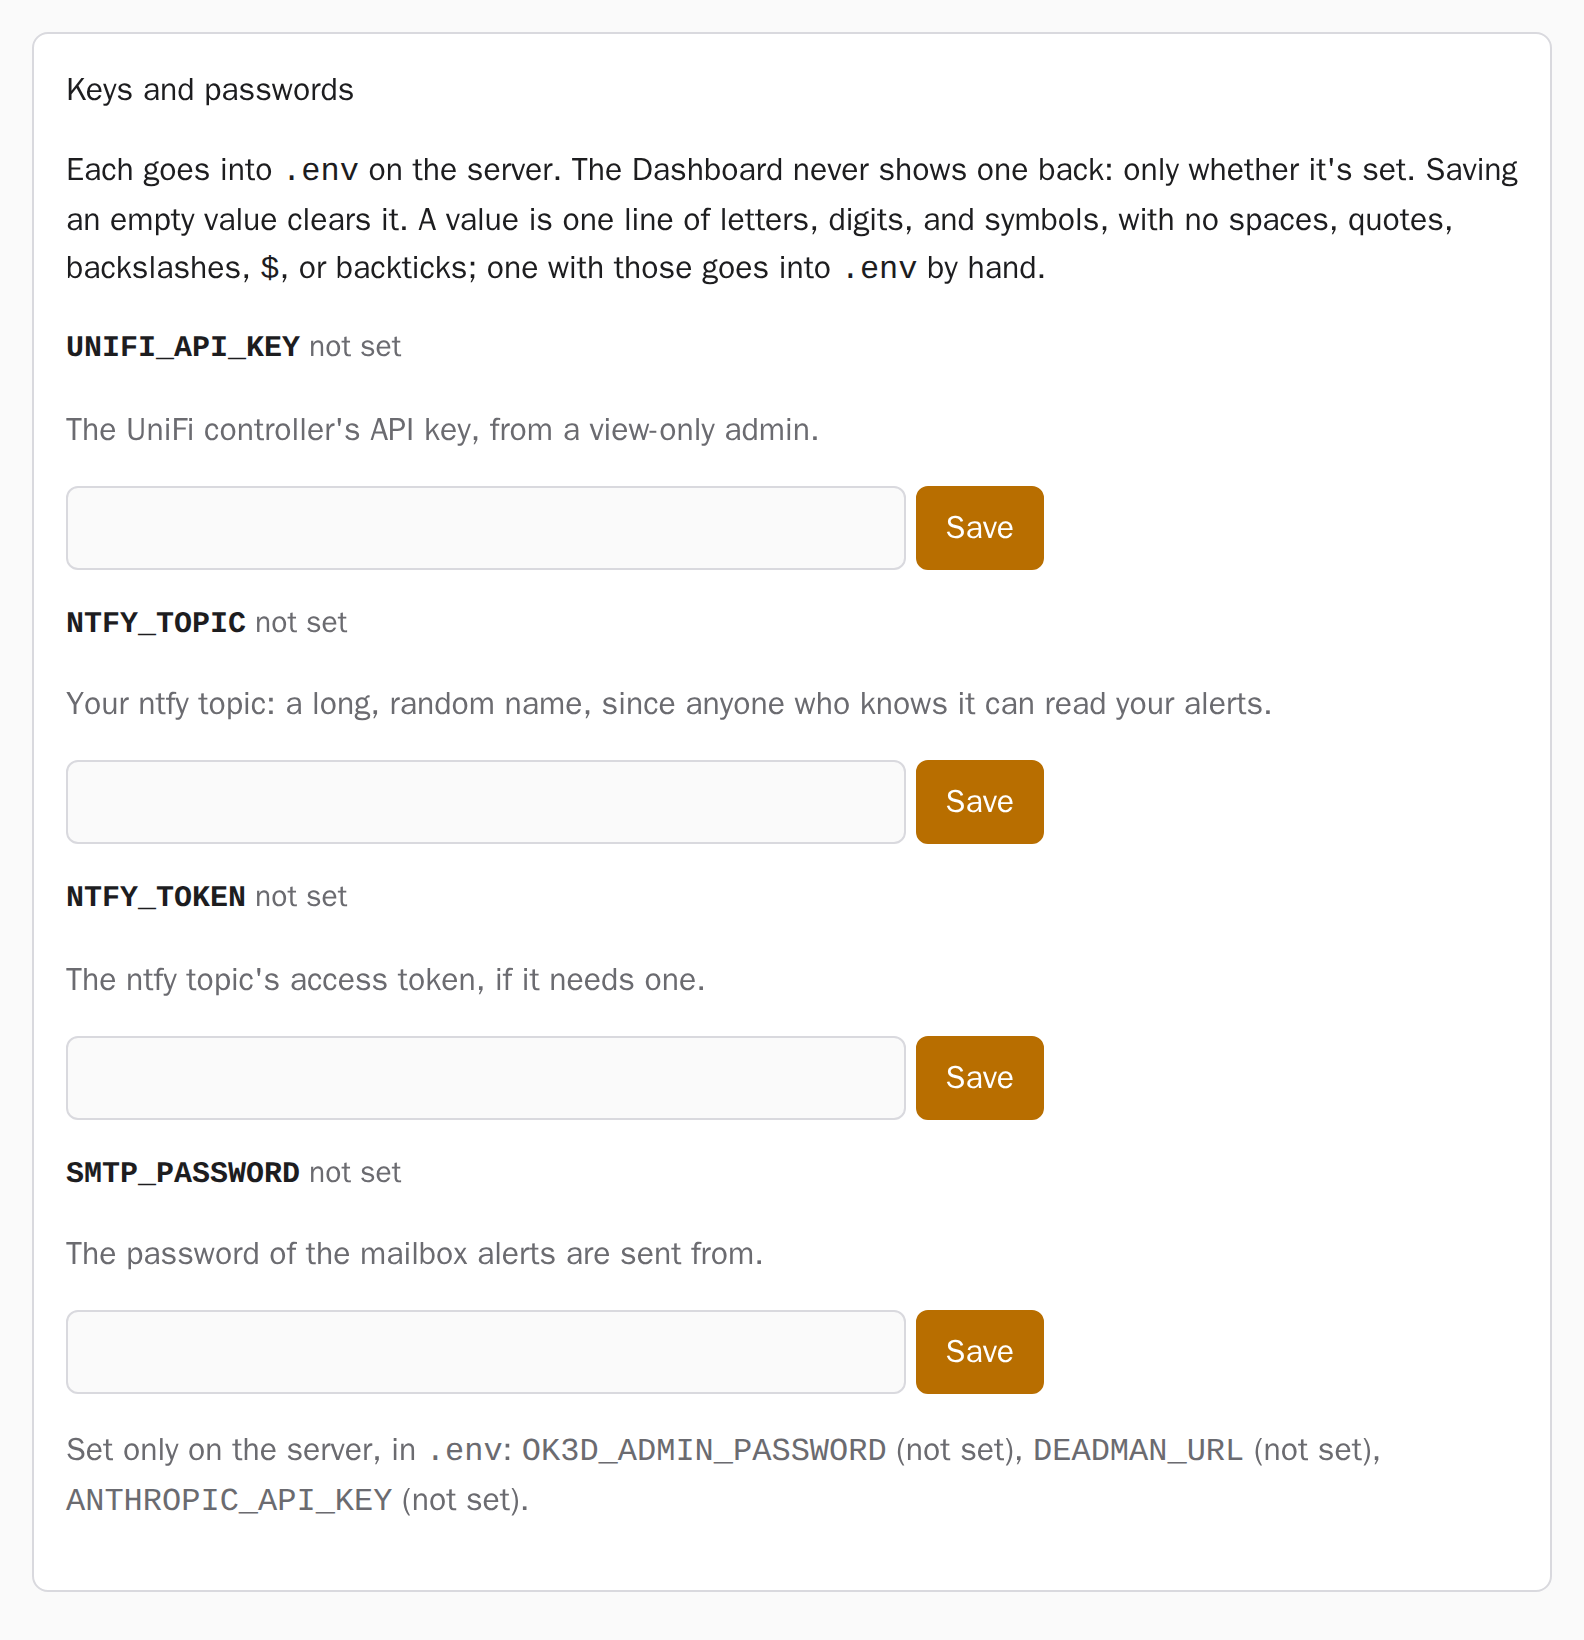
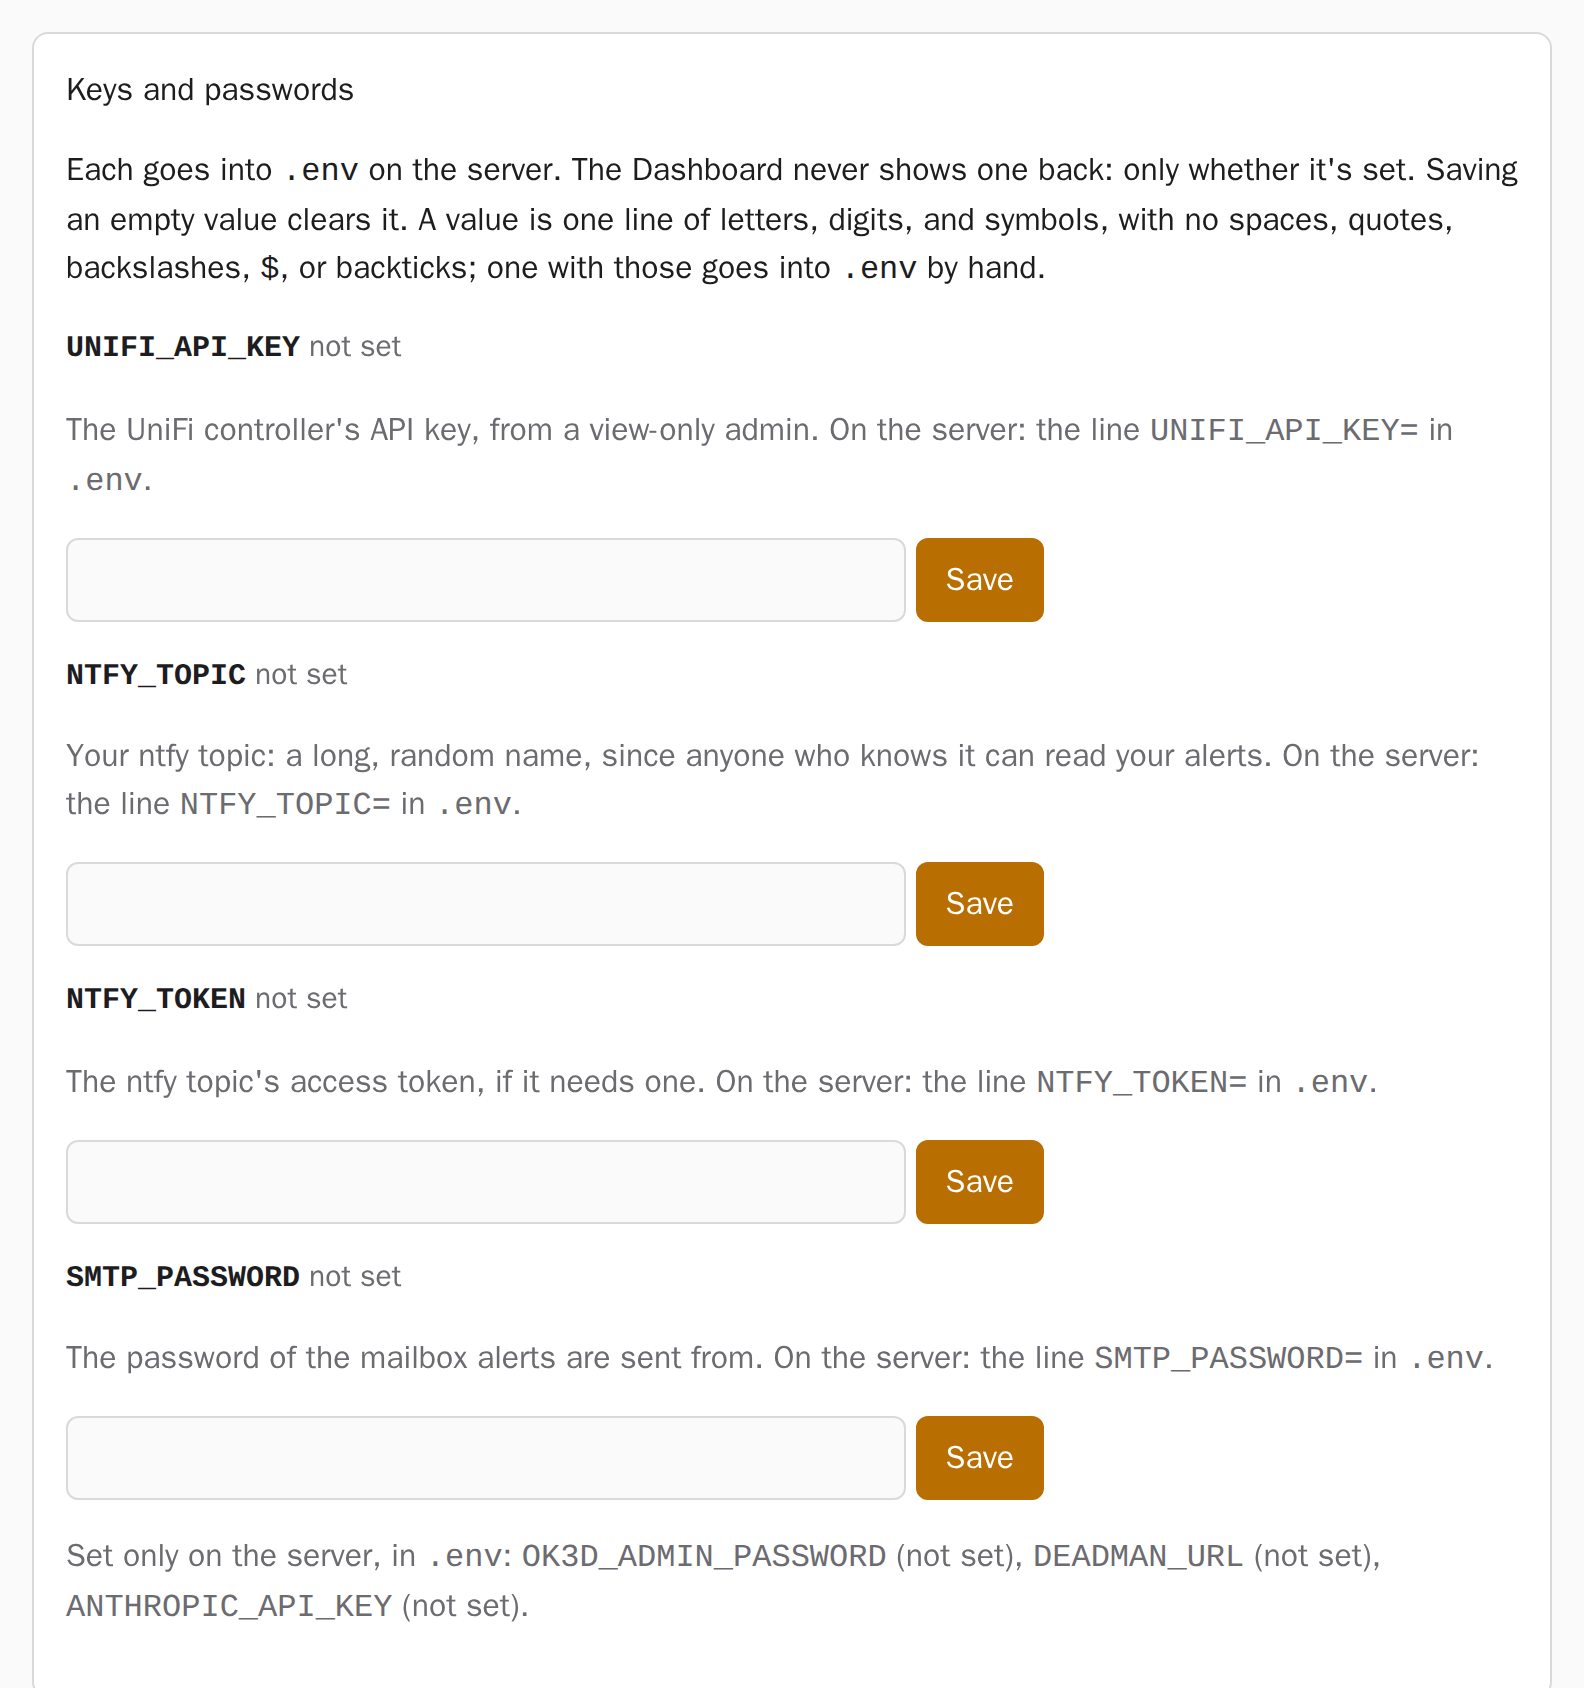
Release 0.5.1 (#47)
Release 0.5.1: the Dashboard's second step.

## What's in it

- **Version 0.5.1** in the package and both charts. The changelog is
dated 2026-10-30.
- **The 0.5.1 changelog section**, which becomes the release notes:
- Upgrades from the Dashboard, and `./ok3d upgrade`, for signed releases
only (#42).
  - Apply asks first when it would restart or stop something (#43).
  - Each page shows its server command (#44).
  - Maintenance windows (#45, #46).
- The Upgrading note now says to run the installer, then Check and Apply
on the Dashboard. Apply restarts the gateway when coming from 0.5.0, and
its question needs Helm 3.13 or newer.
- **Every Dashboard screenshot retaken** from this branch on a fresh
test VM, so each shows 0.5.1 and its page's new text. There's a new
screenshot of the Maintenance page, and the alt texts describe what's
new.
- **The roadmap and CLAUDE.md** now say 0.5.1 is being released and 0.6
is next.

## The release test, on the test VM

1. **Upgrade from 0.5.0, the way a user has it.**
- I restored the clean snapshot and installed `v0.5.0` with the
installer. Check and Apply on its Dashboard took 12.75 minutes.
- I moved the checkout to this branch with the commands from
`docs/upgrading.md`, because the installer only takes tags. Then I ran
`./ok3d install`, with the Dashboard's image built from this branch.
   - From the Dashboard alone:
- **Check** listed the plan: the gateway would restart, plus 32 other
changes that stop nothing.
[…]

diff --git a/src/ok3d/__init__.py b/src/ok3d/__init__.py
@@ -6,4 +6,4 @@ arrives in the release the roadmap in PLAN.md gives it.
 
 # The version every part reports. A release pull request sets it; the next pull request
 # moves it on to the following version's .dev0.
-__version__ = "0.5.1.dev0"
+__version__ = "0.5.1"

diff --git a/docs/dashboard.md b/docs/dashboard.md
@@ -39,7 +39,7 @@ minute.
 
 <picture>
   <source media="(prefers-color-scheme: dark)" srcset="../images/screenshots/dashboard-home-dark.png">
-  <img src="../images/screenshots/dashboard-home-light.png" alt="The Dashboard's Home page: ok3d's version, the helper running, the Check and Apply buttons, a Before you Apply list saying alerts go nowhere yet, What's next with five steps and links to the certificate authority and Grafana, and the helper's last answer, a Check that finished with exit status 0, with what ok3d check printed." width="700">
+  <img src="../images/screenshots/dashboard-home-light.png" alt="The Dashboard's Home page: ok3d 0.5.1, the helper running, the Check and Apply buttons with a note that Apply will change nothing that's running and the same commands on the server, a Before you Apply list saying alerts go nowhere yet, What's next with five steps and links to the certificate authority and Grafana, the helper's last answer, a Check that finished with exit status 0, with what ok3d check printed, and Releases, with a Look for a new release button." width="700">
 </picture>
 
 Each page also says what its buttons do on the server, as the command or the line in a file
@@ -86,7 +86,7 @@ backups it makes, and what to do if an upgrade stops partway.
 
 <picture>
   <source media="(prefers-color-scheme: dark)" srcset="../images/screenshots/dashboard-setup-dark.png">
-  <img src="../images/screenshots/dashboard-setup-light.png" alt="The Dashboard's Setup page: four ready-made setups as cards (Basic NOC, marked as the setup now; Network NOC, which needs the UniFi controller's address first; NOC with logs, coming in 0.6; and NOC with agents, coming in 0.9), then each part (UniFi, off until its controller's address is set, and the rest coming in later releases), then where alerts go: ntfy, email, and the dead man's switch, each off, with a Turn on button." width="700">
+  <img src="../images/screenshots/dashboard-setup-light.png" alt="The Dashboard's Setup page, each choice with the settings.yaml line it writes: four ready-made setups as cards (Basic NOC, marked as the setup now; Network NOC, which needs the UniFi controller's address first; NOC with logs, coming in 0.6; and NOC with agents, coming in 0.9), then each part (UniFi, off until its controller's address is set, and the rest coming in later releases), then where alerts go: ntfy, email, and the dead man's switch, each off; ntfy and the dead man's switch with a Turn on button, and email saying who gets and sends its alerts must be set first." width="700">
 </picture>
 
 Choose a ready-made setup, or switch the parts on and off yourself:
@@ -105,7 +105,7 @@ a later release says which one.
 
 <picture>
   <source media="(prefers-color-scheme: dark)" srcset="../images/screenshots/dashboard-devices-dark.png">
-  <img src="../images/screenshots/dashboard-devices-light.png" alt="The Dashboard's Devices page: devices.yaml in a text box, listing the simulated network's router, switch, access points, NAS, printer, and UniFi controller, with a Save button." width="700">
+  <img src="../images/screenshots/dashboard-devices-light.png" alt="The Dashboard's Devices page: devices.yaml in a text box, starting with the simulated network's router, switch, and an access point, with the same edit on the server and a Save button." width="700">
 </picture>
 
 These show `settings.yaml` and `devices.yaml` as they are on the server, to change and save.
@@ -117,6 +117,11 @@ file on the server.
 
 ## Maintenance
 
+<picture>
+  <source media="(prefers-color-scheme: dark)" srcset="../images/screenshots/dashboard-maintenance-dark.png">
+  <img src="../images/screenshots/dashboard-maintenance-light.png" alt="The Dashboard's Maintenance page: no maintenance windows, not yet read from Alertmanager, a button to read them again, and a form to add one: for all of ok3d or ticked devices from the simulated network, from now for a length or between two times in the server's own time, and why, with the same command on the server." width="700">
+</picture>
+
 **Maintenance** lists the maintenance windows: times when alerts don't notify you, for all of
 ok3d or for the devices you choose. Add one from now for a length, or between two times in
 the server's own time, with a reason if you like; **End now** ends one early. Home says while
@@ -127,7 +132,7 @@ details.
 
 <picture>
   <source media="(prefers-color-scheme: dark)" srcset="../images/screenshots/dashboard-keys-dark.png">
-  <img src="../images/screenshots/dashboard-keys-light.png" alt="The Dashboard's Keys page: the UniFi API key, the ntfy topic and token, and the mail password, each saying whether it's set, with a box to type a new one and a Save button." width="700">
+  <img src="../images/screenshots/dashboard-keys-light.png" alt="The Dashboard's Keys page: the UniFi API key, the ntfy topic and token, and the mail password, each saying whether it's set and which line of .env it goes into on the server, with a box to type a new one and a Save button." width="700">
 </picture>
 
 Keys and passwords go into `.env` on the server. The Dashboard shows only whether each one is

diff --git a/docs/roadmap.md b/docs/roadmap.md
@@ -4,7 +4,7 @@ Where ok3d is, release by release. Every pull request updates this page when it 
 starts, or changes something here. [PLAN.md](../PLAN.md#roadmap) has the detail of each
 release and the reasons behind it.
 
-**Now:** 0.5.0 is released. 0.5.1 is in progress: the Dashboard's second step.
+**Now:** 0.5.1 is being released: the Dashboard's second step. 0.6.0, logs and changes, comes next.
 
 | Release | What it brings | Status |
 |---|---|---|
@@ -60,5 +60,5 @@ release and the reasons behind it.
 | Maintenance windows | Done ([#45](https://github.com/southsidedean/observability-k3d/pull/45)) |
 | Apply asks first when it would stop something | Done ([#43](https://github.com/southsidedean/observability-k3d/pull/43)) |
 | Each choice shown as its `ok3d` command | Done ([#44](https://github.com/southsidedean/observability-k3d/pull/44)) |
-| The Dashboard's screenshots retaken, showing a released version and each page's new text | Planned |
-| Release 0.5.1: the installer from 0.5.0, and the Dashboard's upgrade rehearsed with a test tag (0.5.0 has no Upgrade button) | Planned |
+| The Dashboard's screenshots retaken, showing a released version and each page's new text | Done ([#47](https://github.com/southsidedean/observability-k3d/pull/47)) |
+| Release 0.5.1: the installer from 0.5.0, and the Dashboard's upgrade rehearsed with a test tag (0.5.0 has no Upgrade button) | In progress |

diff --git a/CHANGELOG.md b/CHANGELOG.md
@@ -1,11 +1,17 @@
 # Changelog
 
-## 0.5.1 (unreleased)
+## 0.5.1 (2026-10-30)
 
 ### Upgrading
 
-- From 0.5.0 or 0.4, run the installer again, as for 0.5.0 ([docs/upgrading.md](docs/upgrading.md#to-051-from-050-or-04)).
-  From 0.5.1 on, the Dashboard upgrades ok3d itself.
+- From 0.5.0 or 0.4, run the installer again, as for 0.5.0
+  ([docs/upgrading.md](docs/upgrading.md#to-051-from-050-or-04)). If ok3d isn't in `~/ok3d`,
+  put `OK3D_DIR=/path/to/ok3d` before `sh`. Then **Check** and **Apply** on the Dashboard.
+  Apply now asks first: from 0.5.0 it restarts the gateway, so ok3d's pages are unavailable
+  for a moment, and the rest changes without stopping anything.
+- From 0.5.1 on, the Dashboard upgrades ok3d itself: **Look for a new release** on Home.
+- Apply's question needs Helm 3.13 or newer to know what would change; with an older Helm,
+  Check warns, and Apply always asks.
 
 ### Changes
 

diff --git a/CLAUDE.md b/CLAUDE.md
@@ -16,8 +16,9 @@ request that finishes an item marks it Done with its own number.
 
 - `v0.2.0` is the old stack's last version; its files are gone from 0.4 (`docs/upgrading.md`
   covers moving from it). Fix forward in ok3d, never by bringing them back.
-- `v0.4.0` is released. 0.5 (the Dashboard) is in progress; `docs/roadmap.md` has where it
-  stands.
+- 0.5 (the Dashboard) is released as `v0.5.0` and `v0.5.1`; every release tag from `v0.5.0`
+  on is signed. 0.6 (logs and changes) is next; `docs/roadmap.md` has where it stands. From 0.5.1, each release test
+  is an upgrade from the release before, from the Dashboard alone.
 - Before 1.0: a full independent review of every file (no spot checks) and an architectural
   review, written up in `docs/reviews/1.0-review.md`.
 
